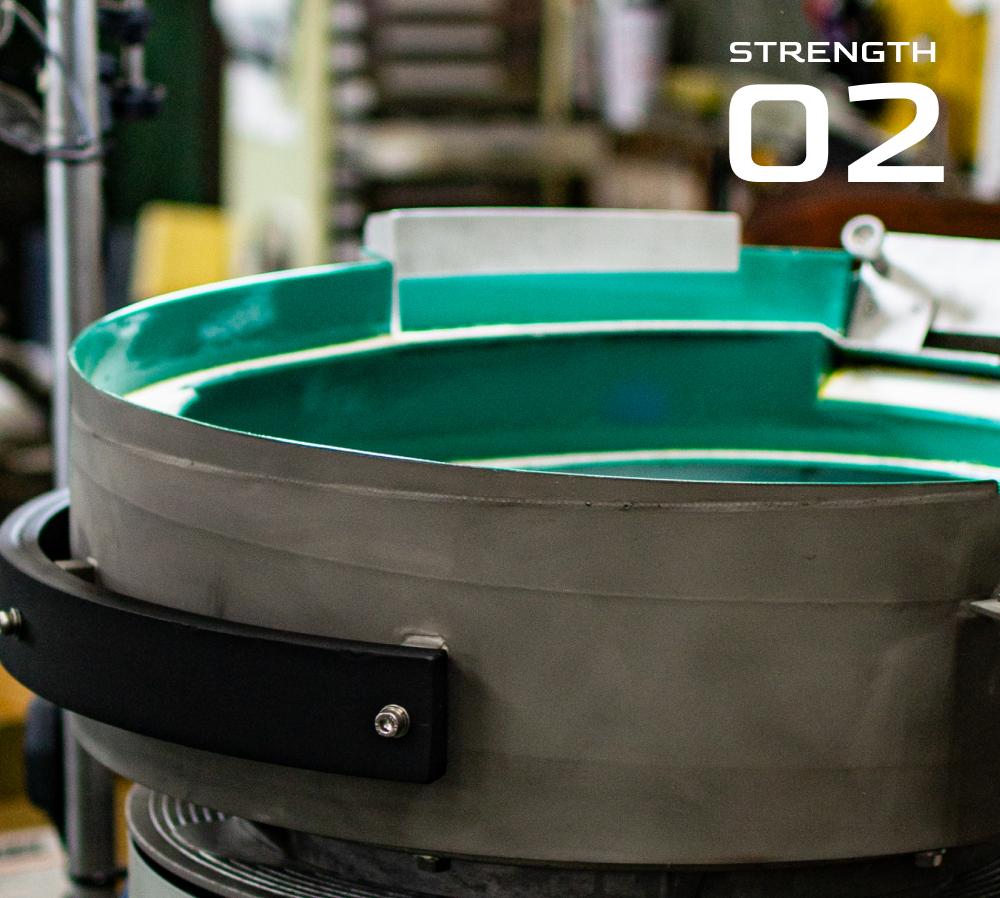
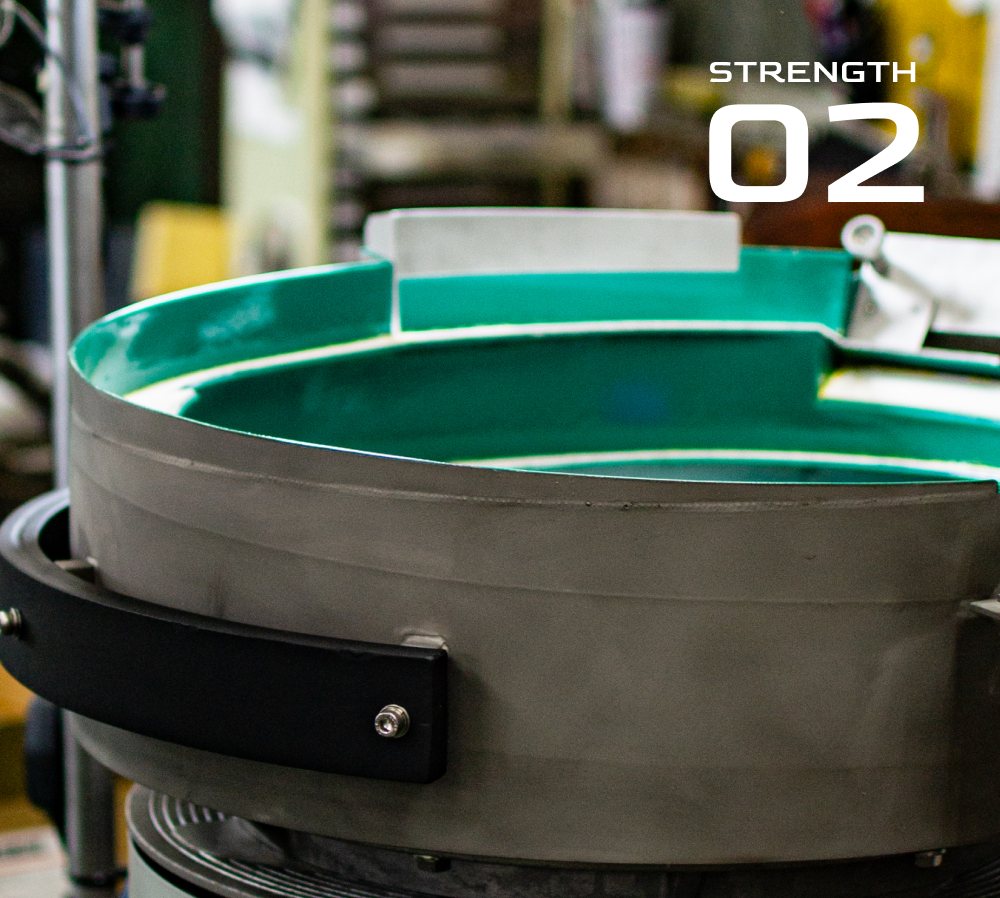
デスクトップ版のレイアウト・スタイル調整
Figmaに合わせてセクション見出し(section-head--accent/--sm)・CEOメッセージ・
Flow矢印・求める人物像の背景・ギャラリー幅・ヒーローの高さなどを調整。
Instagramリンク、Google Map埋め込みの座標修正も対応。

Changed region(s): [[0.682, 0.0312, 0.961, 0.2494]]

diff --git a/index.html b/index.html
@@ -8,7 +8,7 @@
 <link rel="icon" href="assets/img/logo-mark.svg" type="image/svg+xml">
 <link rel="preconnect" href="https://fonts.googleapis.com">
 <link rel="preconnect" href="https://fonts.gstatic.com" crossorigin>
-<link href="https://fonts.googleapis.com/css2?family=Goldman:wght@400;700&family=Noto+Sans+JP:wght@400;500;700&family=Oxanium:wght@500;600;700&display=swap" rel="stylesheet">
+<link href="https://fonts.googleapis.com/css2?family=Goldman:wght@400;700&family=Noto+Sans+JP:wght@400;500;700&family=Oxanium:wght@500;600;700&family=Klee+One:wght@400;600&display=swap" rel="stylesheet">
 <link rel="stylesheet" href="assets/css/style.css">
 </head>
 <body>
@@ -24,6 +24,11 @@
         <li><a href="#recruit">リクルート</a></li>
         <li><a href="#company">会社概要</a></li>
         <li><a href="#contact">お問合せ</a></li>
+        <li>
+          <a href="https://www.instagram.com/9nine_techno/" class="site-nav__icon" target="_blank" rel="noopener" aria-label="Instagram">
+            <svg width="21" height="21" viewBox="0 0 24 24" fill="none" aria-hidden="true"><rect x="2" y="2" width="20" height="20" rx="5" stroke="currentColor" stroke-width="2"/><circle cx="12" cy="12" r="4.5" stroke="currentColor" stroke-width="2"/><circle cx="17.5" cy="6.5" r="1.2" fill="currentColor"/></svg>
+          </a>
+        </li>
       </ul>
     </nav>
   </div>
@@ -119,7 +124,7 @@
         <li><span>お打合せ</span></li>
         <li><span>お見積</span></li>
         <li><span>設計</span></li>
-        <li><span>組立<br>パーツフィーダ製作<br>調整</span></li>
+        <li><span>組立／パーツフィーダ製作／調整</span></li>
         <li><span>納品</span></li>
       </ol>
       <a href="#contact" class="btn btn--dark">当社のサービスに関するお問合せはこちら<svg class="btn__arrow" width="16" height="19" viewBox="0 0 16 19" fill="none" aria-hidden="true"><path d="M8 0v17M1 10l7 7 7-7" stroke="currentColor" stroke-width="2" fill="none"/></svg></a>
@@ -131,12 +136,18 @@
     <div class="container">
       <div class="ceo__box">
         <div class="ceo__left">
-          <div class="ceo__logo"><img src="assets/img/logo-mark.svg" alt=""></div>
-          <p class="ceo__en">CEO&rsquo;s Message</p>
-          <h2 class="ceo__ja">代表取締役 メッセージ</h2>
-          <p class="ceo__body">弊社は創業以来、自働省力機械の設計、製作を通じて皆様に信頼される製品を作ってまいりました。
-特にパーツフィーダという得意分野を持ち、自動機と共に提供できることが弊社の強みです。
-富山県滑川市の小さな工場から今後も仲間と長年のノウハウと新しい技術をもとに高品質で安全・高精度な製品を作り続けたいと思います。</p>
+          <div class="ceo__heading">
+            <div class="ceo__logo"><img src="assets/img/logo-mark.svg" alt=""></div>
+            <div class="ceo__heading-text">
+              <p class="ceo__en">CEO&rsquo;s Message</p>
+              <h2 class="ceo__ja">代表取締役 メッセージ</h2>
+            </div>
+          </div>
+          <div class="ceo__body">
+            <p>弊社は創業以来、自働省力機械の設計、製作を通じて皆様に信頼される製品を作ってまいりました。</p>
+            <p>特にパーツフィーダという得意分野を持ち、自動機と共に提供できることが弊社の強みです。</p>
+            <p>富山県滑川市の小さな工場から今後も仲間と長年のノウハウと新しい技術をもとに高品質で安全・高精度な製品を作り続けたいと思います。</p>
+          </div>
           <p class="ceo__name">代表取締役　長谷川 洋</p>
         </div>
         <div class="ceo__portrait"><img src="assets/img/ceo-portrait.png" alt="代表取締役 長谷川 洋"></div>
@@ -172,14 +183,18 @@
         </div>
       </article>
 
-      <div class="recruit__gallery">
-        <div><img src="assets/img/interview-gallery-1.png" alt="作業風景A"></div>
-        <div><img src="assets/img/interview-gallery-2.png" alt="作業風景B"></div>
-        <div><img src="assets/img/interview-gallery-3.png" alt="作業風景C"></div>
-        <div><img src="assets/img/interview-gallery-4.png" alt="作業風景D"></div>
-      </div>
+    </div>
 
+    <div class="recruit__gallery">
+      <div><img src="assets/img/interview-gallery-1.png" alt="作業風景A"></div>
+      <div><img src="assets/img/interview-gallery-2.png" alt="作業風景B"></div>
+      <div><img src="assets/img/interview-gallery-3.png" alt="作業風景C"></div>
+      <div><img src="assets/img/interview-gallery-4.png" alt="作業風景D"></div>
+    </div>
+
+    <div class="container">
       <div class="recruit__persona">
+        <img class="recruit__persona-bg" src="assets/img/recruit-bg-9.svg" alt="" aria-hidden="true">
         <h3 class="recruit__persona-title">求める人物像</h3>
         <div class="recruit__persona-inner">
           <div class="recruit__persona-photo"><img src="assets/img/recruit-people.png" alt="求める人物像のイメージ"></div>
@@ -206,7 +221,7 @@
   <!-- COMPANY -->
   <section class="section company" id="company">
     <div class="container">
-      <header class="section-head">
+      <header class="section-head section-head--sm">
         <p class="section-head__en">COMPANY</p>
         <p class="section-head__ja">会社概要</p>
       </header>
@@ -226,7 +241,8 @@
       </div>
       <div class="company__map">
         <iframe title="ナインテクノ 所在地地図" loading="lazy" referrerpolicy="no-referrer-when-downgrade"
-          src="https://www.google.com/maps?q=%E5%AF%8C%E5%B1%B1%E7%9C%8C%E6%BB%91%E5%B7%9D%E5%B8%82%E5%8C%97%E9%87%8E45&output=embed"></iframe>
+          src="https://www.google.com/maps?q=36.7752235,137.3690485&z=17&output=embed"></iframe>
+        <a class="company__map-link" href="https://maps.app.goo.gl/isNyqDiSLHW7PNGE8" target="_blank" rel="noopener">Google Mapsで開く</a>
       </div>
     </div>
   </section>
@@ -234,7 +250,7 @@
   <!-- CONTACT -->
   <section class="section contact" id="contact">
     <div class="container">
-      <header class="section-head">
+      <header class="section-head section-head--sm">
         <p class="section-head__en">CONTACT</p>
         <p class="section-head__ja">お問合せ</p>
       </header>

diff --git a/assets/css/style.css b/assets/css/style.css
@@ -66,6 +66,15 @@ button { font: inherit; }
   font-size: clamp(14px, 1.4vw, 16px);
   margin-top: -0.5em;
 }
+.section-head--accent .section-head__en,
+.section-head--sm .section-head__en {
+  font-weight: 500;
+  font-size: clamp(26px, 3.9vw, 60px);
+  letter-spacing: -0.06em;
+}
+.section-head--accent {
+  margin-bottom: clamp(20px, 2.5vw, 32px);
+}
 .section-head--accent .section-head__ja {
   color: var(--c-blue);
   font-weight: 700;
@@ -138,15 +147,19 @@ button { font: inherit; }
   transition: background 0.2s ease;
 }
 .site-nav__list a:hover { background: var(--c-blue); }
+.site-nav__icon {
+  padding: 7px !important;
+  border-radius: 50% !important;
+}
 
 /* ============================================================
    KEYVISUAL
    ============================================================ */
 .kv {
   position: relative;
-  height: 96vh;
+  height: min(96vh, 54.12vw);
   min-height: 480px;
-  max-height: 780px;
+  max-height: 920px;
   display: flex;
   align-items: center;
   justify-content: center;
@@ -214,6 +227,7 @@ button { font: inherit; }
 /* ============================================================
    STRENGTH
    ============================================================ */
+.strength { padding-top: clamp(12px, 1.5vw, 20px); }
 .strength__list {
   display: flex;
   flex-direction: column;
@@ -273,6 +287,7 @@ button { font: inherit; }
 /* ============================================================
    FLOW
    ============================================================ */
+.flow { padding-top: clamp(16px, 2vw, 24px); }
 .flow__lead {
   text-align: center;
   font-size: clamp(14px, 1.6vw, 18px);
@@ -305,8 +320,8 @@ button { font: inherit; }
   top: 50%;
   left: calc(100% + 4px);
   width: clamp(14px, 1.6vw, 24px);
-  height: 3px;
-  background: var(--c-blue);
+  aspect-ratio: 42 / 23.094;
+  background: url('../img/flow-arrow.svg') no-repeat center / contain;
   transform: translateY(-50%);
 }
 .flow__steps span {
@@ -322,6 +337,7 @@ button { font: inherit; }
 /* ============================================================
    CEO
    ============================================================ */
+.ceo { padding-top: clamp(16px, 2vw, 28px); }
 .ceo__box {
   position: relative;
   background: var(--c-blue-light);
@@ -332,39 +348,51 @@ button { font: inherit; }
   display: grid;
   grid-template-columns: 1fr 1fr;
   align-items: center;
-  gap: 0 clamp(24px, 4vw, 60px);
+  gap: 0 clamp(20px, 3vw, 32px);
 }
-.ceo__logo { width: 56px; margin-bottom: 12px; }
+.ceo__heading {
+  display: flex;
+  align-items: center;
+  gap: 15px;
+  margin-bottom: clamp(16px, 2vw, 22px);
+}
+.ceo__logo img{ width: 80px; flex-shrink: 0; }
 .ceo__en {
   font-family: var(--font-accent);
   font-size: clamp(18px, 2.4vw, 25px);
   letter-spacing: -0.03em;
-  margin-bottom: 8px;
+  line-height: 1.3;
+  margin-bottom: 0;
 }
 .ceo__ja {
   font-size: clamp(18px, 2.4vw, 24px);
-  margin-bottom: clamp(20px, 3vw, 36px);
+  line-height: 1.1;
 }
 .ceo__body {
   font-size: clamp(14px, 1.5vw, 18px);
-  white-space: pre-line;
+}
+.ceo__body p:not(:last-child) {
+  margin-bottom: clamp(14px, 2vw, 20px);
 }
 .ceo__portrait {
   aspect-ratio: 434 / 463;
   overflow: hidden;
   border-radius: 2px;
+  margin-top: 50px;
 }
 .ceo__portrait img { width: 100%; height: 100%; object-fit: cover; }
 .ceo__name {
   margin-top: 20px;
-  font-size: clamp(16px, 1.8vw, 25px);
+  font-family: 'Klee One', serif;
+  font-weight: 400;
+  font-size: clamp(18px, 2vw, 28px);
   text-align: right;
 }
 
 /* ============================================================
    RECRUIT
    ============================================================ */
-.recruit { background: var(--c-blue-light); }
+.recruit { background: var(--c-blue-light); overflow-x: hidden; }
 .recruit__lead {
   text-align: center;
   font-size: clamp(14px, 1.6vw, 18px);
@@ -404,7 +432,10 @@ button { font: inherit; }
   display: grid;
   grid-template-columns: repeat(4, 1fr);
   gap: clamp(8px, 1.4vw, 17px);
-  margin: clamp(28px, 4vw, 44px) 0;
+  max-width: 1600px;
+  margin: clamp(28px, 4vw, 44px) auto;
+  padding-inline: clamp(12px, 1.6vw, 20px);
+  padding: 0 40px;
 }
 .recruit__gallery div { aspect-ratio: 1 / 1; overflow: hidden; }
 .recruit__gallery img { width: 100%; height: 100%; object-fit: cover; }
@@ -414,7 +445,19 @@ button { font: inherit; }
   padding-top: clamp(40px, 6vw, 70px);
   margin-top: clamp(40px, 6vw, 70px);
 }
+.recruit__persona-bg {
+  position: absolute;
+  z-index: 0;
+  top: 10%;
+  right: calc((min(100vw, 1400px) - var(--container-w)) / -2 - 10px);
+  width: clamp(220px, 30vw, 390px);
+  height: auto;
+  opacity: 0.4;
+  pointer-events: none;
+}
 .recruit__persona-title {
+  position: relative;
+  z-index: 1;
   text-align: center;
   color: var(--c-blue);
   font-size: clamp(20px, 2.6vw, 28px);
@@ -422,6 +465,8 @@ button { font: inherit; }
   margin-bottom: clamp(24px, 3vw, 40px);
 }
 .recruit__persona-inner {
+  position: relative;
+  z-index: 1;
   display: grid;
   grid-template-columns: 540fr 405fr;
   gap: clamp(24px, 4vw, 55px);
@@ -475,11 +520,25 @@ button { font: inherit; }
 }
 .company__table th { width: 120px; white-space: nowrap; padding-right: 20px; }
 .company__map {
+  position: relative;
   aspect-ratio: 1000 / 250;
   background: #c5c5c5;
   overflow: hidden;
 }
 .company__map iframe { width: 100%; height: 100%; border: 0; }
+.company__map-link {
+  position: absolute;
+  right: 12px;
+  bottom: 12px;
+  background: #fff;
+  color: var(--c-blue);
+  font-size: 13px;
+  font-weight: 700;
+  padding: 8px 14px;
+  border-radius: 6px;
+  box-shadow: 0 2px 8px rgba(0, 0, 0, 0.2);
+}
+.company__map-link:hover { opacity: 0.85; }
 
 /* ============================================================
    CONTACT
